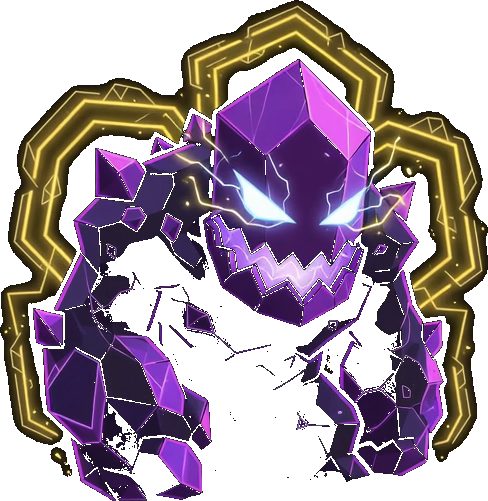
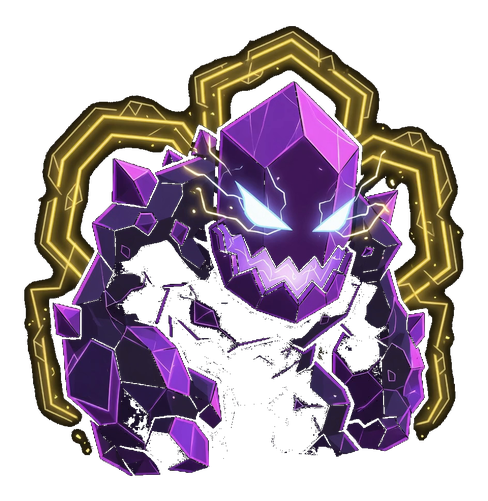
Harden the lava boss and rename level back links to Home.
Level 4 boss is 70% larger, uses a stomp walk cycle, and fires waist-high eye lasers every 10 seconds. Jump or stand on a platform to dodge. All six levels now link Home instead of the old Prompt Matrix. README updated.

diff --git a/Level4.html b/Level4.html
@@ -8,7 +8,7 @@
 </head>
 <body>
   <div class="header">
-    <a href="index.html" class="back-link">← RETURN TO PROMPT MATRIX</a>
+    <a href="index.html" class="back-link">← HOME</a>
     <div class="page-title">NEON DASH LEVEL 4 <span>ROCK &amp; LAVA • SIDE-SCROLL SIM</span></div>
   </div>
 
@@ -48,6 +48,14 @@
     const W = canvas.width;
     const H = canvas.height;
     const GROUND_Y = 418;
+    const BOSS_W = 105; // 62 * 1.7
+    const BOSS_H = 122; // 72 * 1.7
+    const BOSS_LASER_EVERY = 600; // ~10s at 60fps
+    const BOSS_LASER_WINDUP = 78;
+    const BOSS_LASER_HOLD = 52;
+    const BOSS_LASER_TOP = GROUND_Y - 44;
+    const BOSS_LASER_BOT = GROUND_Y - 14;
+    const BOSS_LASER_REACH = 540;
 
     let player = { wx: 90, y: 0, vx: 0, vy: 0, w: 26, h: 26 };
     let obstacles = [];
@@ -650,7 +658,7 @@
 
       // === ACTIVE END BOSS PHYSICS + AI (bouncing foreground boss; only while active) ===
       // Simple platformer physics + chase player + ground bounce. Parallax 1.0 handled in draw (full scrollX).
-      // Boss behaviors/AI/movement/sounds/particles 100% preserved. NEW RULE (boss fight only): the ONLY way to die while endBoss && !bossDefeated && gameState==='playing' (inBossFight) is if boss lands directly on top and crushes (see END BOSS COLLISIONS). All lava, darts, projectiles, enemy hits, boss side-taps suppressed (see guarded death paths).
+      // Boss fight deaths: crush (lands on player) OR the horizontal eye-laser. Other hazards stay non-lethal during the fight.
       if (endBoss && !bossDefeated && gameState === 'playing') {
         const gravity = 0.52;
         endBoss.vy += gravity;
@@ -667,7 +675,7 @@
               const ang = Math.random() * Math.PI * 2;
               const sp = 0.9 + Math.random() * 2.8;
               particles.push({
-                x: endBoss.wx + 15 + Math.random() * 32,
+                x: endBoss.wx + (Math.random() - 0.3) * (endBoss.w || BOSS_W),
                 y: endBoss.y + 6,
                 vx: (Math.random() - 0.5) * sp * 1.6,
                 vy: -0.8 - Math.random() * 1.6,
@@ -688,9 +696,58 @@
         targetSpeed += Math.sin(frame * 0.095 + (endBoss.wx * 0.02)) * 0.55;
         endBoss.vx = endBoss.vx * 0.65 + targetSpeed * 0.35;
         endBoss.wx += endBoss.vx;
+        if (Math.abs(endBoss.vx) > 0.35 || Math.abs(endBoss.vy) > 0.5) {
+          endBoss.step = (endBoss.step || 0) + Math.max(0.12, Math.abs(endBoss.vx) * 0.32);
+        }
 
         // keep roughly in view / reasonable chase range (avoid too far left of player during fight)
         if (endBoss.wx < player.wx - 280) endBoss.wx = player.wx - 280;
+
+        // Eye lasers: telegraph, then a waist-high horizontal beam the player must jump or platform over
+        if (!endBoss.laserPhase) endBoss.laserPhase = 'idle';
+        if (endBoss.laserPhase === 'idle' && frame - (endBoss.lastLaser || 0) >= BOSS_LASER_EVERY) {
+          endBoss.laserPhase = 'windup';
+          endBoss.laserStart = frame;
+        } else if (endBoss.laserPhase === 'windup' && frame - endBoss.laserStart >= BOSS_LASER_WINDUP) {
+          endBoss.laserPhase = 'beam';
+          endBoss.laserStart = frame;
+          playLaser();
+        } else if (endBoss.laserPhase === 'beam' && frame - endBoss.laserStart >= BOSS_LASER_HOLD) {
+          endBoss.laserPhase = 'idle';
+          endBoss.lastLaser = frame;
+        }
+
+        if (endBoss.laserPhase === 'beam') {
+          const pLeft = player.wx;
+          const pRight = player.wx + player.w;
+          const pTop = player.y;
+          const pBottom = player.y + player.h;
+          const lLeft = endBoss.wx - BOSS_LASER_REACH;
+          const lRight = endBoss.wx + BOSS_LASER_REACH;
+          if (pRight > lLeft && pLeft < lRight && pBottom > BOSS_LASER_TOP && pTop < BOSS_LASER_BOT) {
+            const now = frame;
+            if (now < player.invulnUntil) {
+              // post-stomp / shield grace
+            } else if (player.hasShield) {
+              player.hasShield = false;
+              playShieldPop();
+              player.invulnUntil = now + 300;
+              for (let k = 0; k < 16; k++) {
+                const ang = Math.random() * Math.PI * 2;
+                const sp = 1.5 + Math.random() * 2.8;
+                particles.push({
+                  x: player.wx + 13, y: player.y + 13,
+                  vx: Math.cos(ang) * sp, vy: Math.sin(ang) * sp - 0.6,
+                  life: 22 + Math.random() * 14, c: '#66ddff', size: 1.8
+                });
+              }
+            } else {
+              gameState = 'over';
+              playDeath('projectile');
+              spawnExplosion(player.wx + player.w / 2, player.y + player.h / 2);
+            }
+          }
+        }
       }
 
       // clamp left bound
@@ -1662,10 +1719,12 @@
       // CRITICAL NEW RULE (while inBossFight): stomp path (exactly 3 stomps -> bossDefeated, victory particles, endBoss=null, ladder spawn+cleanup) 100% unchanged and only win path.
       // The crush death path below is now the SOLE way player dies in boss fight (direct land on top). Refined isCrush slightly for "lands directly on top"; side non-crush overlaps are now survivable (no death).
       if (endBoss && !bossDefeated && gameState === 'playing') {
-        const bLeft = endBoss.wx - 8;
-        const bRight = endBoss.wx + 55;
-        const bTop = endBoss.y - 85;   // approx drawn top (body/spikes)
-        const bBottom = endBoss.y + 5; // feet area
+        const bw = endBoss.w || BOSS_W;
+        const bh = endBoss.h || BOSS_H;
+        const bLeft = endBoss.wx - bw * 0.5;
+        const bRight = endBoss.wx + bw * 0.5;
+        const bTop = endBoss.y - bh;
+        const bBottom = endBoss.y + 5;
         const pLeft = player.wx;
         const pRight = player.wx + player.w;
         const pTop = player.y;
@@ -1698,7 +1757,7 @@
 
             if (endBoss.stomps < 3) {
               // Bounce player to safe distance left, brief invuln flash, boss knocked back
-              player.wx = endBoss.wx - 62;
+              player.wx = endBoss.wx - (endBoss.w || BOSS_W) * 0.5 - 28;
               player.vx = -4.2;
               player.invulnUntil = frame + 18; // short post-stomp protection
               endBoss.vx = -3.5;
@@ -2033,10 +2092,16 @@
             vy: -10,  // initial jump-in arc from right
             vx: -2.8,  // initial leftward velocity so boss always enters from extreme right
             stomps: 0,
-            w: 62,
-            h: 72,
+            w: BOSS_W,
+            h: BOSS_H,
+            step: 0,
+            laserPhase: 'idle',
+            lastLaser: frame,
             lastBounce: frame - 200  // allow initial bounce-in
           };
+          platforms.push({ wx: player.wx - 30, y: GROUND_Y - 96, width: 74, height: 8 });
+          platforms.push({ wx: player.wx + 110, y: GROUND_Y - 96, width: 74, height: 8 });
+          platforms.push({ wx: player.wx + 230, y: GROUND_Y - 138, width: 68, height: 8 });
         }
         // Only spawn the actual ladder+portal *after* boss defeated
         if (bossDefeated) {
@@ -3122,9 +3187,11 @@
       if (endBoss && !bossDefeated) {
         const bx = endBoss.wx - scrollX;
         const by = endBoss.y;
-        const bodyW = endBoss.w || 62;
-        const bodyH = endBoss.h || 72;
-        if (!(window.NeonDashSprites && NeonDashSprites.drawBoss(ctx, bx - bodyW / 2, by - bodyH, bodyW, bodyH, frame))) {
+        const bodyW = endBoss.w || BOSS_W;
+        const bodyH = endBoss.h || BOSS_H;
+        const bossPose = (endBoss.laserPhase === 'windup' || endBoss.laserPhase === 'beam') ? 'laser' : undefined;
+        const walkClock = endBoss.step || 0;
+        if (!(window.NeonDashSprites && NeonDashSprites.drawBoss(ctx, bx - bodyW / 2, by - bodyH, bodyW, bodyH, walkClock, bossPose))) {
         // Dynamic stomp anim (stronger feel); use frame + slight vy influence
         const stomp = Math.sin(frame * 0.072) * 6.5 + (endBoss.vy > 0 ? 1.5 : 0);
         const stomp2 = Math.sin(frame * 0.072 + 1.75) * 5.8;
@@ -3218,6 +3285,32 @@
         ctx.fill();
 
         ctx.restore();
+        }
+
+        // Horizontal eye lasers (windup warning + lethal beam). Jump or stand on a platform to clear the band.
+        if (endBoss.laserPhase === 'windup' || endBoss.laserPhase === 'beam') {
+          const firing = endBoss.laserPhase === 'beam';
+          const t = firing
+            ? 1
+            : Math.min(1, (frame - (endBoss.laserStart || 0)) / BOSS_LASER_WINDUP);
+          const pulse = 0.45 + 0.55 * Math.abs(Math.sin(frame * (firing ? 0.55 : 0.22)));
+          const bandY = (BOSS_LASER_TOP + BOSS_LASER_BOT) * 0.5;
+          const bandH = firing ? (BOSS_LASER_BOT - BOSS_LASER_TOP) : 10 + t * 12;
+          const beamW = BOSS_LASER_REACH;
+          const sx0 = (endBoss.wx - scrollX);
+          ctx.save();
+          ctx.globalAlpha = firing ? (0.72 + 0.22 * pulse) : (0.18 + 0.28 * t * pulse);
+          if (!(window.NeonDashSprites && NeonDashSprites.drawSprite(ctx, 'bossEyeBeam', sx0 + 18, bandY - bandH * 0.5, beamW, bandH))) {
+            ctx.fillStyle = firing ? 'rgba(180, 255, 255, 0.85)' : 'rgba(120, 220, 255, 0.55)';
+            ctx.fillRect(sx0 + 16, bandY - bandH * 0.5, beamW, bandH);
+          }
+          ctx.translate(sx0 - 18, bandY);
+          ctx.scale(-1, 1);
+          if (!(window.NeonDashSprites && NeonDashSprites.drawSprite(ctx, 'bossEyeBeam', 0, -bandH * 0.5, beamW, bandH))) {
+            ctx.fillStyle = firing ? 'rgba(180, 255, 255, 0.85)' : 'rgba(120, 220, 255, 0.55)';
+            ctx.fillRect(0, -bandH * 0.5, beamW, bandH);
+          }
+          ctx.restore();
         }
       }
 

diff --git a/assets/neon/draw-sprites.js b/assets/neon/draw-sprites.js
@@ -56,7 +56,11 @@
     load('fluid-acid', 'fluid-acid.png');
     load('npc', (t.npc) ? t.npc : 'octopoop.png');
     if (t.ptero) load('ptero', t.ptero);
-    if (t.boss) load('boss', t.boss);
+    if (t.boss) {
+      load('boss', t.boss);
+      load('bossLaser', 'boss-laser.png');
+      load('bossEyeBeam', 'boss-eye-beam.png');
+    }
     if (t.bubble) load('bubble', t.bubble);
     if (t.build) load('build', t.build);
     if (t.pyramid) load('pyramid', t.pyramid);
@@ -113,9 +117,14 @@
     return true;
   }
 
-  function drawBoss(ctx, x, y, w, h, frame) {
-    var idx = (Math.floor(frame / 5) % 8) + 1;
-    var img = images['boss' + idx] || images.boss;
+  function drawBoss(ctx, x, y, w, h, frame, pose) {
+    var img;
+    if (pose === 'laser') {
+      img = images.bossLaser || images.boss;
+    } else {
+      var idx = (Math.floor(Math.abs(frame)) % 8) + 1;
+      img = images['boss' + idx] || images.boss;
+    }
     if (!img || !img.complete || !img.naturalWidth) return false;
     ctx.drawImage(img, x, y, w, h);
     return true;

diff --git a/tests/sprite-wiring-check.js b/tests/sprite-wiring-check.js
@@ -53,7 +53,7 @@ const spriteFiles = [
   'portal-void.png', 'portal-industrial.png', 'portal-lava.png', 'portal-pink.png', 'portal-water.png',
   'portal-void-01.png', 'portal-void-08.png', 'portal-lava-01.png', 'portal-pink-01.png', 'portal-water-01.png', 'portal-industrial-01.png',
   'blob.png', 'blob-lava.png', 'blob-pink.png', 'blob-water.png',
-  'ptero.png', 'drone.png', 'octopoop.png', 'boss.png', 'bubble.png',
+  'ptero.png', 'drone.png', 'octopoop.png', 'boss.png', 'boss-laser.png', 'boss-eye-beam.png', 'bubble.png',
   'sky-void.jpg', 'sky-octo.jpg', 'sky-industrial.jpg', 'sky-lava.jpg', 'sky-pink.jpg', 'sky-water.jpg',
   'plat-void.png', 'plat-octo.png', 'plat-industrial.png', 'plat-lava.png', 'plat-pink.png', 'plat-water.png',
   'boss-01.png', 'boss-08.png',

diff --git a/Level3.html b/Level3.html
@@ -8,7 +8,7 @@
 </head>
 <body>
   <div class="header">
-    <a href="index.html" class="back-link">← RETURN TO PROMPT MATRIX</a>
+    <a href="index.html" class="back-link">← HOME</a>
     <div class="page-title">NEON DASH LEVEL 3 <span>INDUSTRIAL WAREHOUSE • SIDE-SCROLL SIM</span></div>
   </div>
 

diff --git a/Level6.html b/Level6.html
@@ -8,7 +8,7 @@
 </head>
 <body>
   <div class="header">
-    <a href="index.html" class="back-link">← RETURN TO PROMPT MATRIX</a>
+    <a href="index.html" class="back-link">← HOME</a>
     <div class="page-title">NEON DASH LEVEL 6 <span>DEEP WATER • SIDE-SCROLL SIM</span></div>
   </div>
 

diff --git a/Leve5.html b/Leve5.html
@@ -8,7 +8,7 @@
 </head>
 <body>
   <div class="header">
-    <a href="index.html" class="back-link">← RETURN TO PROMPT MATRIX</a>
+    <a href="index.html" class="back-link">← HOME</a>
     <div class="page-title">NEON DASH LEVEL 5 <span>FLORA • SIDE-SCROLL SIM</span></div>
   </div>
 

diff --git a/void-cube.html b/void-cube.html
@@ -8,7 +8,7 @@
 </head>
 <body>
   <div class="header">
-    <a href="index.html" class="back-link">← RETURN TO PROMPT MATRIX</a>
+    <a href="index.html" class="back-link">← HOME</a>
     <div class="page-title">NEON DASH PROTOCOL <span>774 • SIDE-SCROLL SIM</span></div>
   </div>
 

diff --git a/level2.html b/level2.html
@@ -8,7 +8,7 @@
 </head>
 <body>
   <div class="header">
-    <a href="index.html" class="back-link">← RETURN TO PROMPT MATRIX</a>
+    <a href="index.html" class="back-link">← HOME</a>
     <div class="page-title">NEON DASH LEVEL 2 <span>775 • SIDE-SCROLL SIM</span></div>
   </div>
 

diff --git a/README.md b/README.md
@@ -2,7 +2,7 @@
 
 HTML5 canvas side-scroller. The six-level run is **Neon Dash**: gravity cube, neon orbs, exit ladders, Web Audio SFX plus looping WAV beds. No build step.
 
-This game used to live alongside the POPCORN Prompt Synthesizer in [apollo-n23/to-understand](https://github.com/apollo-n23/to-understand).
+This game used to live alongside the POPCORN Prompt Synthesizer in [apollo-n23/to-understand](https://github.com/apollo-n23/to-understand). Level pages use **← HOME** to return to this hub.
 
 ## Run locally
 
@@ -24,10 +24,10 @@ The hub plays a muted looping 30s cinematic above the world select. Levels 1 and
 | `void-cube.html` | Level 1 (Void) — loops `assets/audio/L1-BG.wav` |
 | `level2.html` | Level 2 (Mr Octopoop) — loops `assets/audio/L2-BG.wav` |
 | `Level3.html` | Level 3 (Industrial) |
-| `Level4.html` | Level 4 (Lava; crush-only boss) |
+| `Level4.html` | Level 4 (Lava). End boss is 70% larger, walks with an 8-frame stomp cycle, and fires waist-high eye lasers every ~10s (jump or stand on a platform). Crush still kills; 3 stomps still win. |
 | `Leve5.html` | Level 5 (Pink biosphere; filename is historical) |
 | `Level6.html` | Level 6 (Deep water, oxygen, Hydro shop) |
-| `assets/neon/` | Sprites, skies, tiles, HUD plates, `draw-sprites.js`, `chrome.css` |
+| `assets/neon/` | Sprites, skies, tiles, HUD plates, `draw-sprites.js`, `chrome.css`. L4 extras: `boss-01`–`boss-08` walk cycle, `boss-laser.png`, `boss-eye-beam.png` |
 | `assets/audio/` | Looping beds: `L#-BG.wav` (L1 and L2 wired; L3–L6 when files land) |
 | `assets/video/` | Hub cutscene `hub-cutscene.mp4` (~30s, 720p) + poster |
 | `tests/neon-mechanics.test.js` | Collision, collect loop, L6 `leaveShop`, spike-vs-trampoline helpers |
